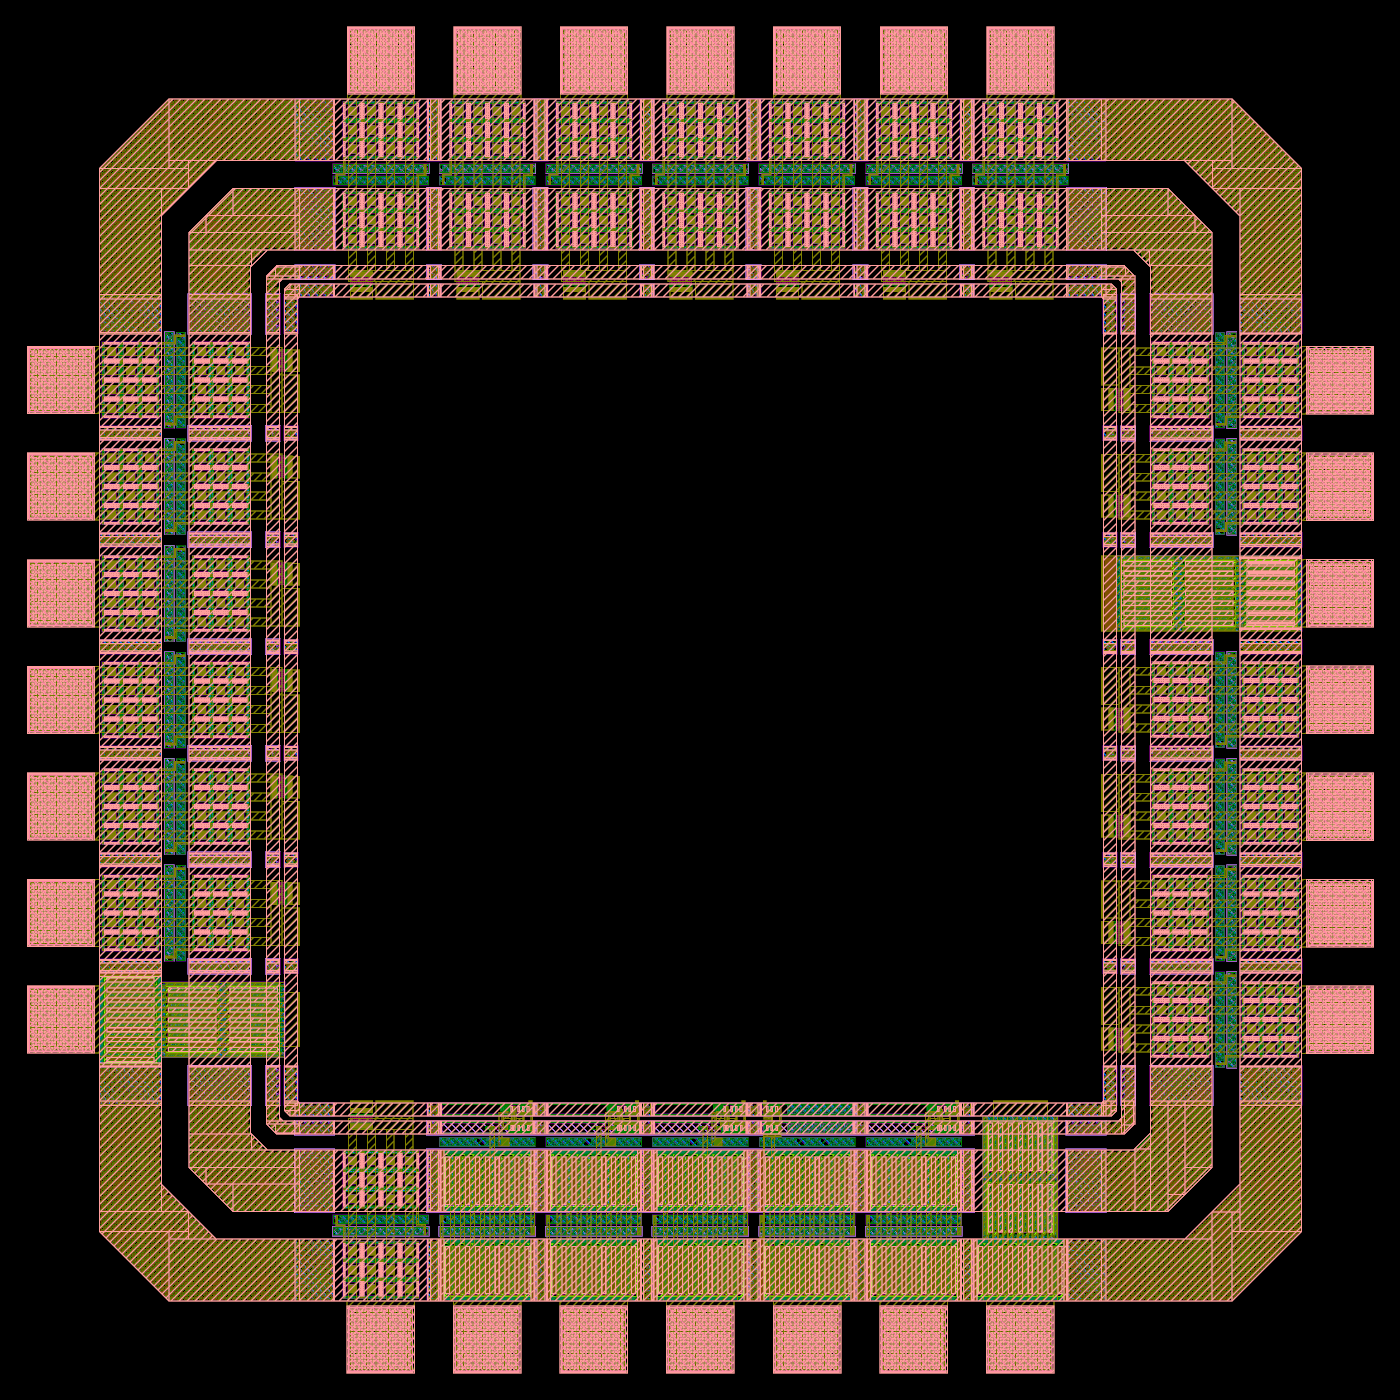
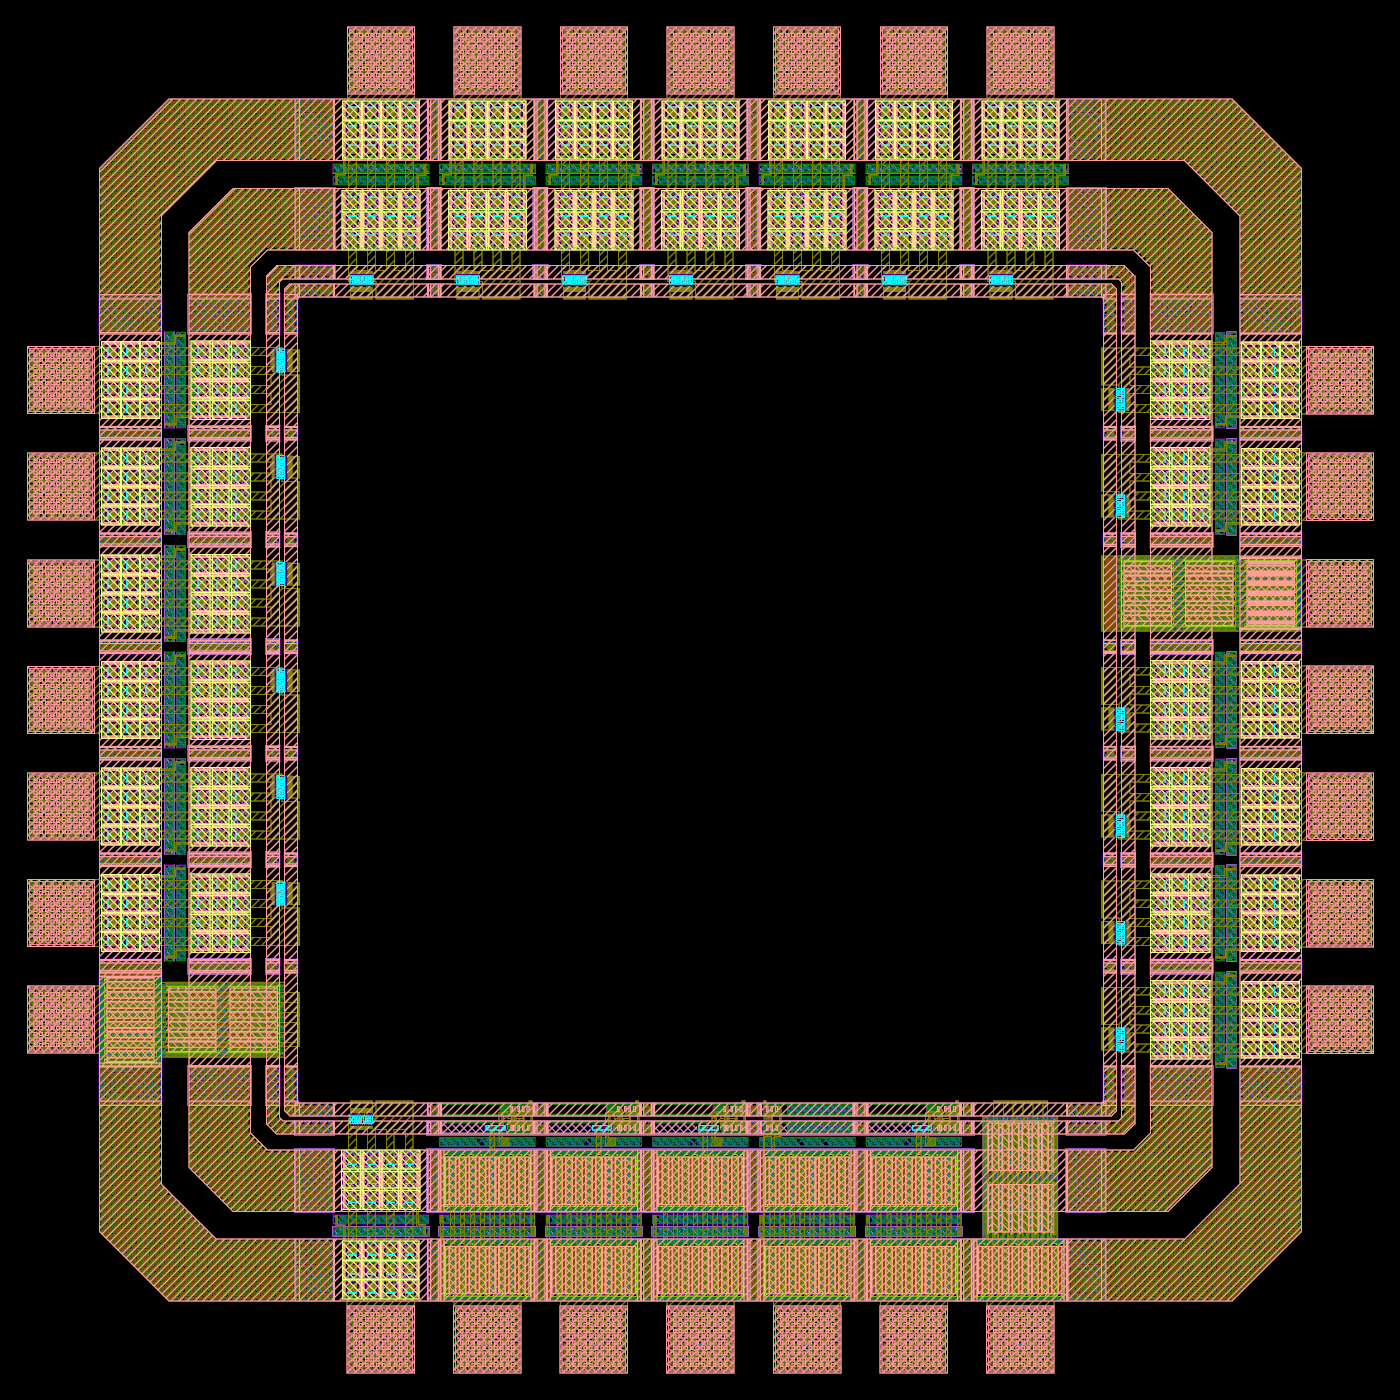
Write ETRI's one-by-one arrays as single placements
ETRI's GPIO GDS places 18 subcells in PANA, PIC and POB4 as 1 x 1 arrays
with real pitch vectors; KLayout writes them back with zero vectors,
which some stream readers refuse. pad_gds.py now writes each 1 x 1 array
as a single placement and names the pad ring library pdkv_Pad instead of
ETRI's library name. Geometry and labels are unchanged (XOR 0 on every
layer, same texts) and the chip checks give the same results.

Also count the pads tied to the substrate by bond pad (all 20; the 14
PADR ports reach it through the series resistor) and redraw the chip and
pad ring pictures from the new GDS.

diff --git a/designs/etri050/chip/pad_gds.py b/designs/etri050/chip/pad_gds.py
@@ -73,6 +73,14 @@ def build(magic: Path, gpio: Path, out: Path):
         o.prune_cell(c.cell_index(), -1)
     if [c.name for c in o.top_cells()] != [mtop.name]:
         raise SystemExit(f"top cells after the swap: {[c.name for c in o.top_cells()]}")
+    # ETRI's GDS places some subcells as 1 x 1 arrays (AREF with real pitch vectors); KLayout writes those
+    # back with zero vectors, which some stream readers refuse. A 1 x 1 array is one placement: write it so.
+    single = 0
+    for c in o.each_cell():
+        for inst in [i for i in c.each_inst() if i.is_regular_array() and i.na == 1 and i.nb == 1]:
+            ci = inst.cell_inst
+            inst.cell_inst = kdb.CellInstArray(ci.cell_index, ci.cplx_trans if ci.is_complex() else ci.trans)
+            single += 1
 
     # checks: the same instances, transforms and cells; the library cells unchanged
     got = Counter(i.cell.name for i in top.each_inst())
@@ -91,8 +99,10 @@ def build(magic: Path, gpio: Path, out: Path):
             if bad:
                 raise SystemExit(f"{name}: differs from the library on {bad}")
     out.parent.mkdir(parents=True, exist_ok=True)
-    o.write(str(out))
-    return used, source
+    opt = kdb.SaveLayoutOptions()
+    opt.libname = mtop.name                            # not the library's name ETRI_NSPL_GPIO_...
+    o.write(str(out), opt)
+    return used, source, single
 
 
 def main(argv=None) -> int:
@@ -101,9 +111,10 @@ def main(argv=None) -> int:
     ap.add_argument("--gpio", type=Path, required=True)
     ap.add_argument("--out", type=Path, required=True)
     args = ap.parse_args(argv)
-    used, source = build(args.magic, args.gpio, args.out)
+    used, source, single = build(args.magic, args.gpio, args.out)
     print(f"wrote {args.out}: {sum(used.values())} instances, cells from " +
-          ", ".join(f"{n} x{used[n]} {source[n]}" for n in sorted(used)))
+          ", ".join(f"{n} x{used[n]} {source[n]}" for n in sorted(used)) +
+          f"; {single} one-by-one arrays written as single placements")
     return 0
 
 
